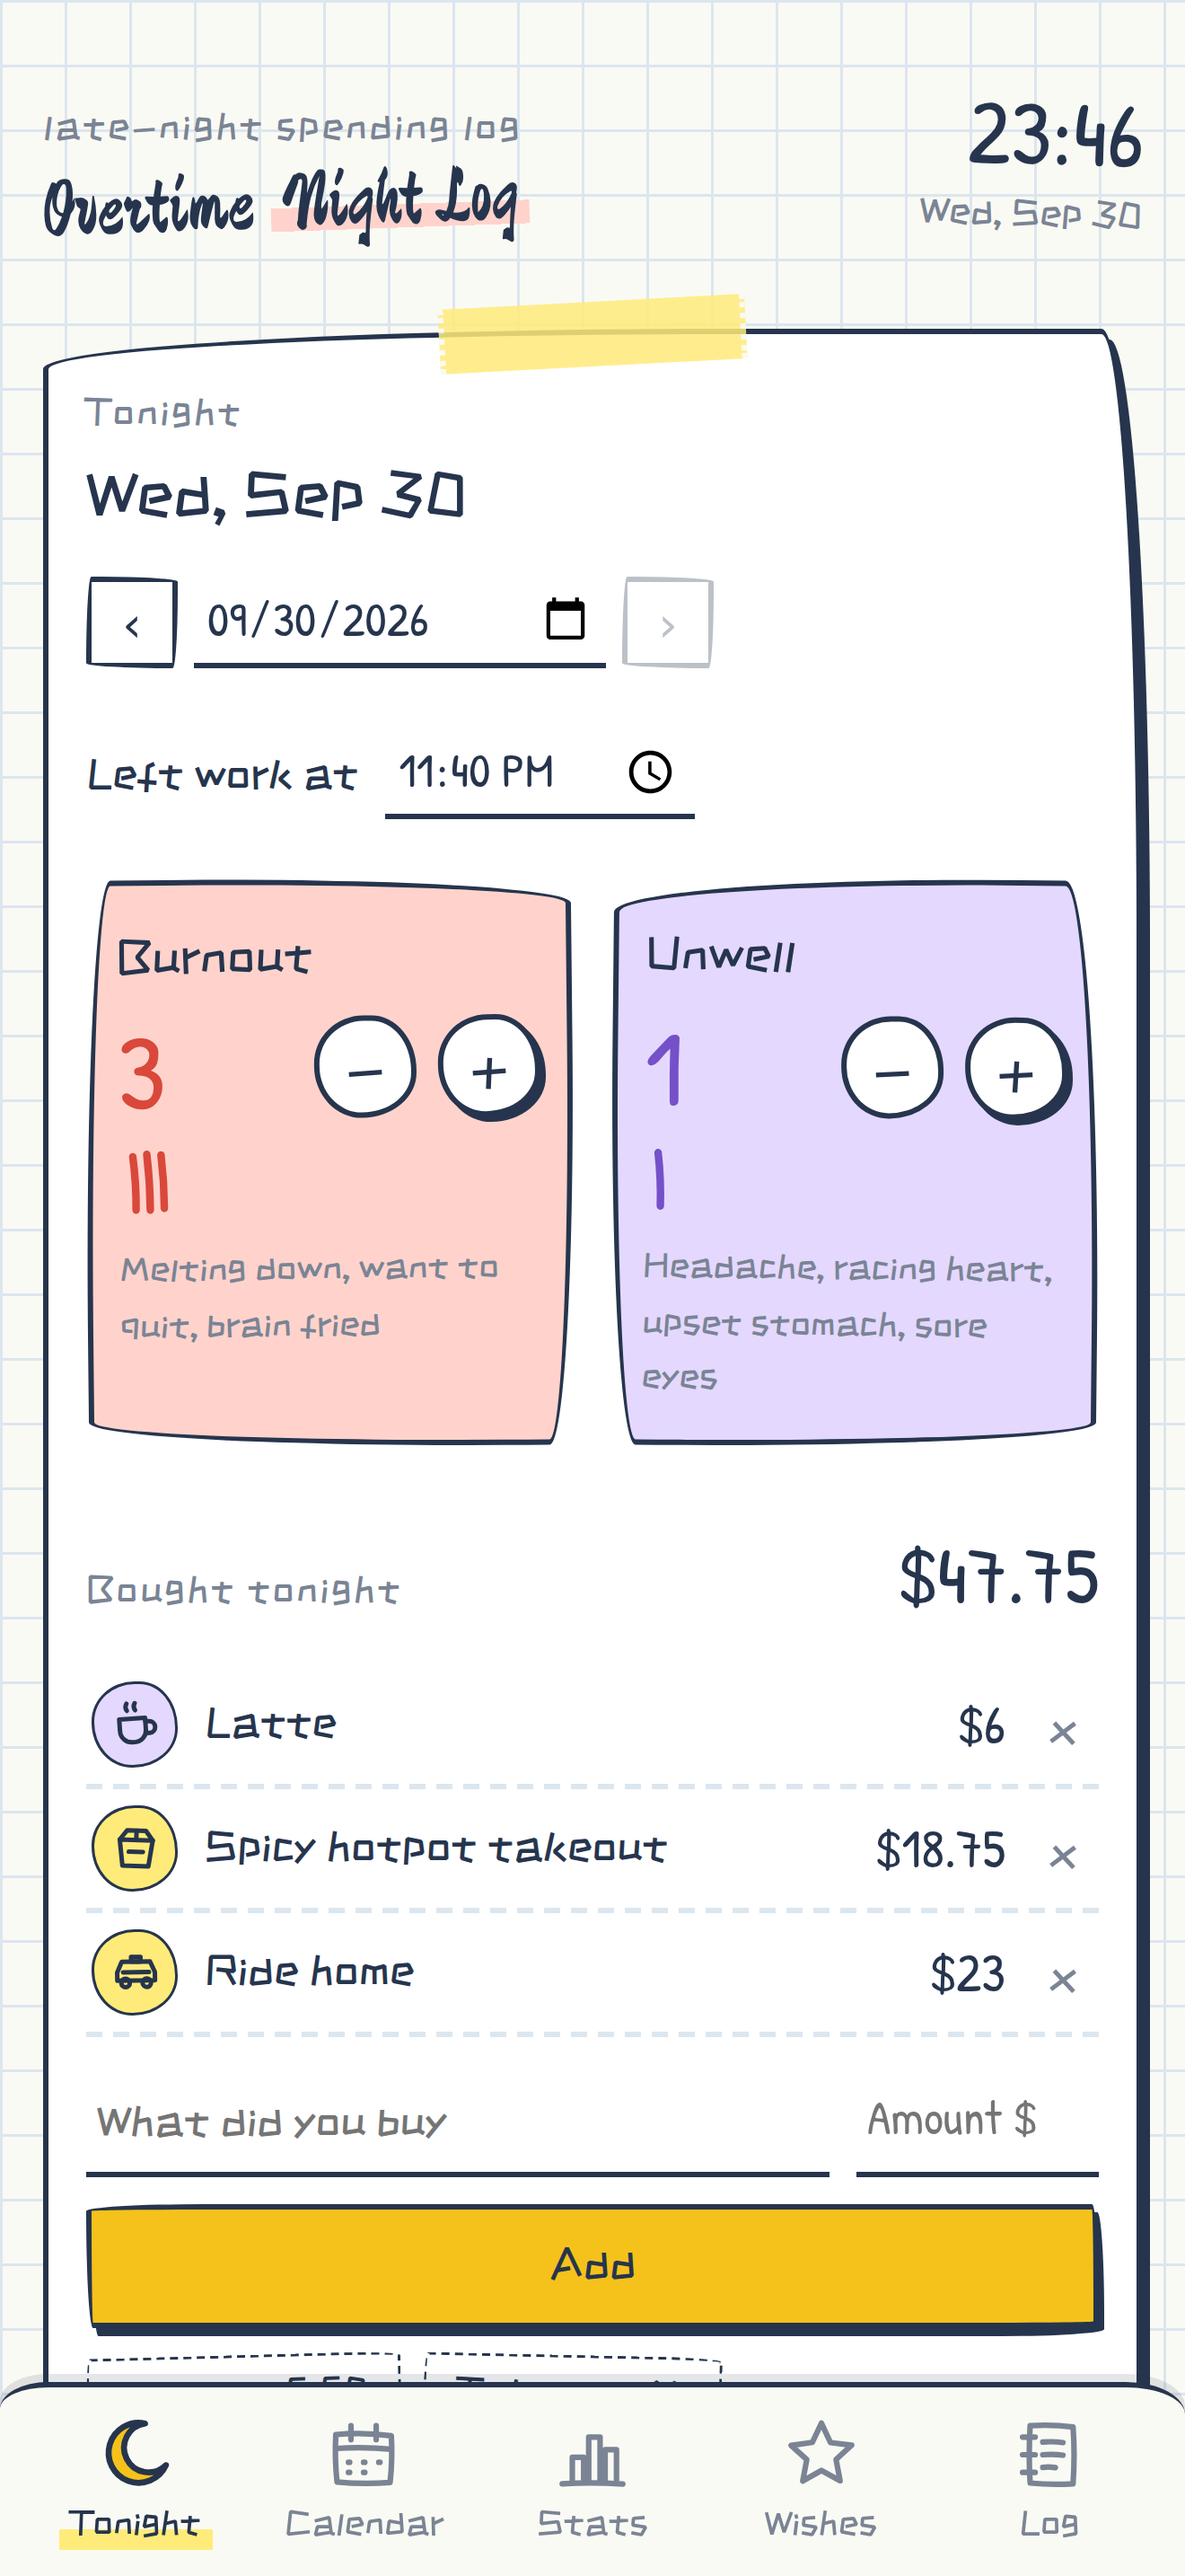
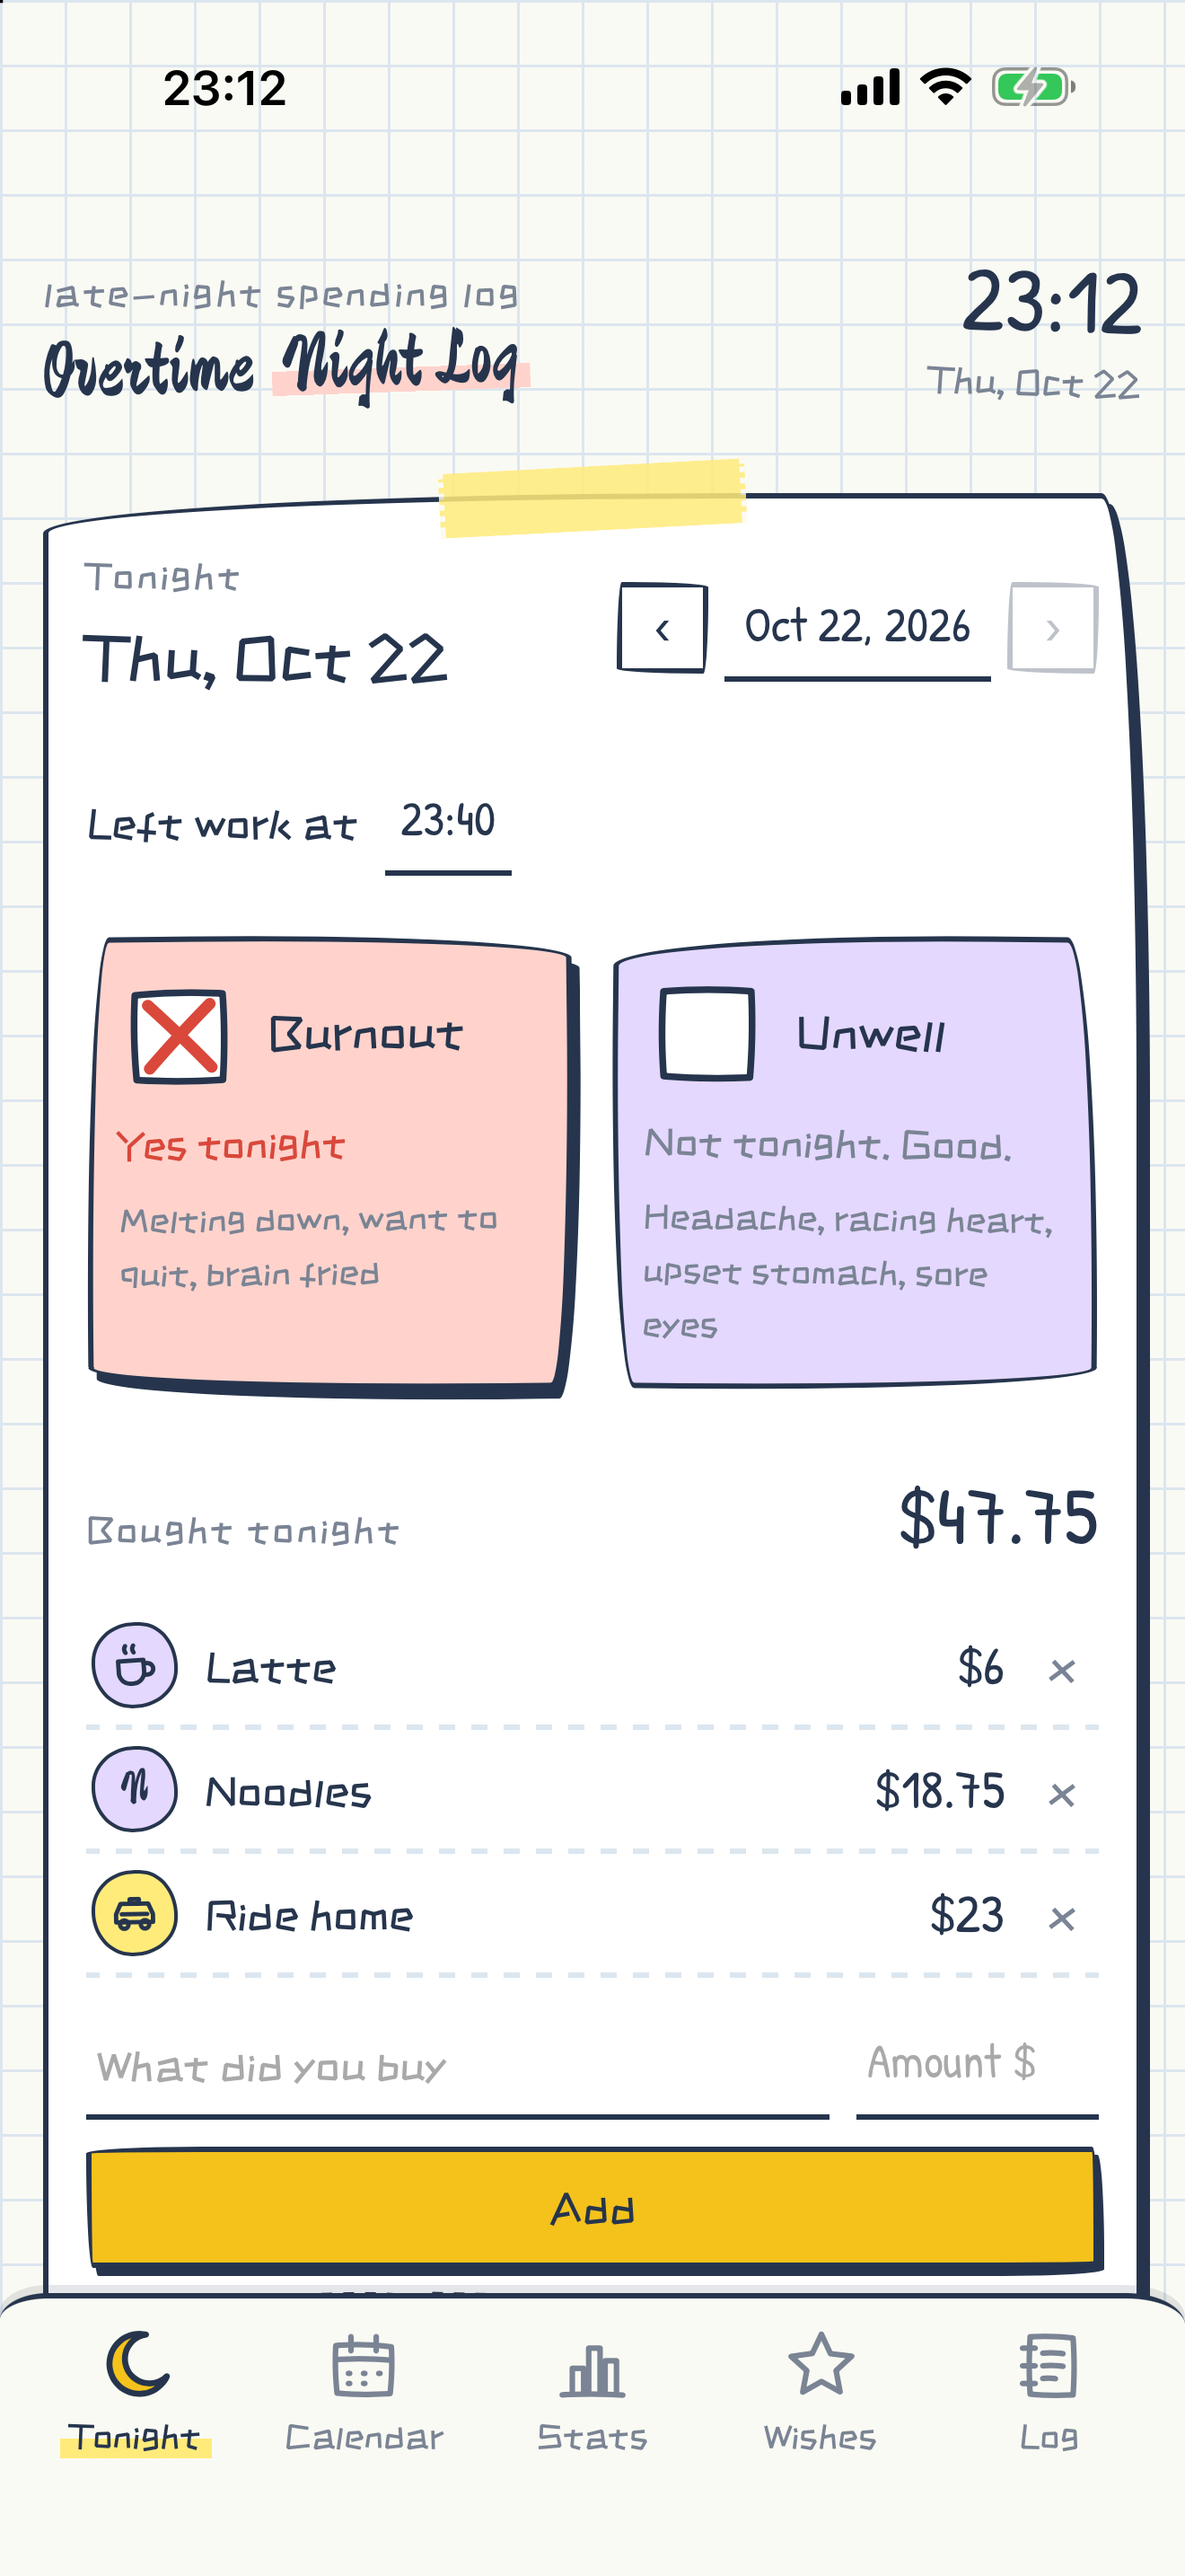
Switch to the paid developer team and retake App Store screenshots
The developer membership is active, so the iOS project is back in paid
mode with the paid team selected for both the App and the widget, and
iCloud key-value storage and the App Group are signed in.

The old screenshots showed features that are gone (burnout counters,
tally marks, the old wishlist, the Clean theme). Retake them on the
iPhone 17 Pro Max simulator in Chinese and English: Tonight, Calendar,
Stats, the monthly bill, Wishlist and Themes. List unwell nights in the
stats line of the store description.

diff --git a/CLAUDE.md b/CLAUDE.md
@@ -40,7 +40,8 @@ xcodebuild -project ios/App/App.xcodeproj -scheme App -destination 'generic/plat
 - 真机连不上（Xcode 报 CoreDeviceError 4000 / `enablePersonalizedDDI`，`devicectl list devices` 显示 `connected (no DDI)`）时：iPhone「设置 → 通用 → 传输或还原 iPhone → 还原 → 还原位置与隐私」后重新插线信任即可。
 - 最低系统版本统一为 iOS 17（小组件需要 17；Capacitor 按工程里第一个 `IPHONEOS_DEPLOYMENT_TARGET` 生成 `CapApp-SPM`，各 target 不一致会有链接警告）。
 - Capacitor 8 的窗口是 `SceneDelegate.swift` 用代码建的，不走 storyboard：根控制器必须是 `MainViewController()`，否则自定义插件不会注册。
-- 开发者会员还在 Pending（付款 / 开通中），所以 Xcode 只有免费的 Personal Team，先用 `npm run ios:free` 测试。
+- 开发者会员已开通（个人账号），工程已切回 `npm run ios:paid` 正式模式，App 和 OvertimeWidget 两个 target 都选付费 Team。命令行 `xcodebuild -allowProvisioningUpdates` 真机构建已通过，签名里带 iCloud 键值存储和 App Group。`ios:free` 只在需要用免费账号时才用。
+- App Store 截图（`appstore/screenshots/`）是 iPhone 17 Pro Max 模拟器截的，1320×2868，中英文各 6 张：今晚、日历、统计、月度账单、愿望清单、主题。功能界面有明显变化时要重拍。
 - Bundle ID：`com.ssbabysong.overtimenightlog`，小组件 `….widget`，App Group `group.com.ssbabysong.overtimenightlog`。
 - 上架地区：除中国大陆外全部。
 

diff --git a/appstore/metadata.md b/appstore/metadata.md
@@ -53,7 +53,7 @@
 · 买到了就勾掉，留着看看都买过什么
 
 📊 统计和月度账单
-· 加班几晚、总花费、最晚几点下班、几晚崩溃
+· 加班几晚、总花费、最晚几点下班、几晚崩溃、几晚身体不行
 · 一键生成「我的加班账单」分享图
 
 🔔 每晚提醒：到点提醒你记一笔
@@ -101,7 +101,7 @@ Overtime Night Log is a hand-drawn notebook for the nights you work late.
 · Tick them off when you get them, and look back at what you bought
 
 📊 Stats and a monthly bill
-· Nights, total spent, latest finish, burnout nights
+· Nights, total spent, latest finish, burnout and unwell nights
 · Turn your month into a shareable image
 
 🔔 Nightly reminder to log your evening
@@ -129,12 +129,12 @@ First release! Log the cost and the toll of late nights, with a nightly reminder
 | --- | --- | --- |
 | 1 | zh-1-tonight.png | en-1-tonight.png |
 | 2 | zh-2-calendar.png | en-2-calendar.png |
-| 3 | zh-3-items.png | en-3-items.png |
-| 4 | zh-4-wishes.png | en-4-wishes.png |
-| 5 | zh-5-bill.png | en-5-bill.png |
+| 3 | zh-3-stats.png | en-3-stats.png |
+| 4 | zh-4-bill.png | en-4-bill.png |
+| 5 | zh-5-wishes.png | en-5-wishes.png |
 | 6 | zh-6-themes.png | en-6-themes.png |
 
-截图里的数据是示例数据。
+截图里的数据是示例数据。用 iPhone 17 Pro Max 模拟器截的，内容依次是：今晚、日历、统计、月度账单、愿望清单、主题设置（和纸手账主题）。
 
 ## 给审核员的备注（App Review Information → Notes）
 
